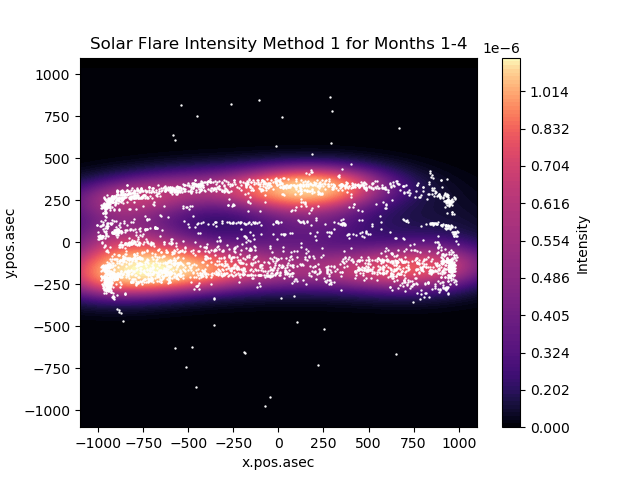
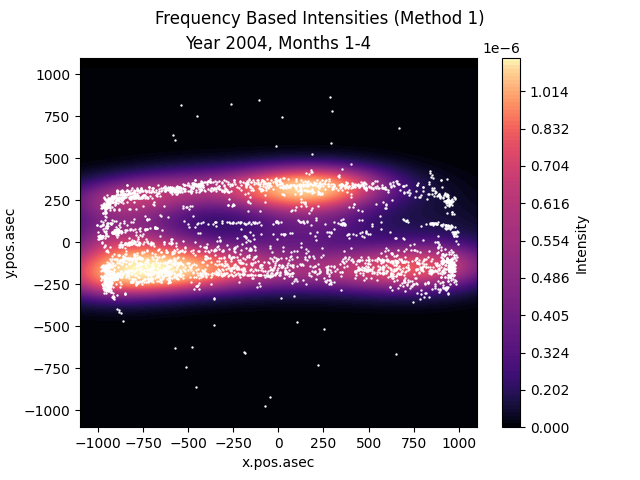
Clean up directories, fix helios class structure

diff --git a/helios.py b/helios.py
@@ -11,7 +11,7 @@ class Helios:
     def __init__(self):
         pass
     
-    def map_and_normalize(data):
+    def __map_and_normalize(self, data):
         # maps energy band to average energy
         energy_band_mapping = {    
             '6-12': 9,
@@ -45,7 +45,7 @@ class Helios:
     # used to either get an array of intensity estimations, 
     # a plot if plot=True and thresh=False, 
     # or just list of probability density values if plot=True and thresh=True
-    def intensity_estimation_frequency(data, plot=False, scatter=True, thresh=False, levels=10):
+    def intensity_estimation_frequency(self, data, plot=False, scatter=True, thresh=False, levels=10):
         # getting the x, y, and total.counts values in numpy arrays
         x = data['x.pos.asec'].values.flatten()
         y = data['y.pos.asec'].values.flatten()
@@ -88,11 +88,13 @@ class Helios:
                     plt.scatter(x, y, s=0.5, facecolor='white')
 
                 # title
-                ax.set_title(f"Solar Flare Intensity Method 1 for Months {data['month'].min()}-{data['month'].max()}")
+                plt.suptitle("Frequency Based Intensities (Method 1)")
+                ax.set_title(f"Year {data['year'].iloc[0]}, Months {data['month'].min()}-{data['month'].max()}")
                 
                 # saving the figure to the output folder
                 date_range = f"{data['year'].iloc[0]}_{data['month'].min()}-{data['month'].max()}"
                 plt.savefig(f"./output/intensity_frequency_{date_range}.png")
+
                 plt.show()
 
                 return fig, ax
@@ -109,22 +111,23 @@ class Helios:
     # from task1.ipynb    
     # gets the energy based intensity values if plot=False,
     # or a plot if plot=True    
-    def intensity_estimation_energy(self, plot=False, scatter=True, levels=10):
+    def intensity_estimation_energy(self, data, plot=False, scatter=True, levels=10):
         # adding the new intensity values for the data
-        #data = self.__map_and_normalize(data)
+        data = self.__map_and_normalize(data)
 
         # energy-based intensity data
-        intensity = self['intensity.method.2'].values.flatten()
+        intensity = data['intensity.method.2'].values.flatten()
+
         # x and y values
-        x = self['x.pos.asec'].values.flatten()
-        y = self['y.pos.asec'].values.flatten()
+        x = data['x.pos.asec'].values.flatten()
+        y = data['y.pos.asec'].values.flatten()
 
         if plot:
             # new matplotlib figure
             fig, ax = plt.subplots()
             
             # seaborn kde plot, uses scipy gaussian_kde underneath
-            ax = sns.kdeplot(data=self, x='x.pos.asec', y='y.pos.asec',
+            ax = sns.kdeplot(data=data, x='x.pos.asec', y='y.pos.asec',
                             weights='intensity.method.2', fill=True, levels=levels, 
                             thresh=0, cmap='inferno', cbar=True, bw_method='scott')
 
@@ -144,9 +147,12 @@ class Helios:
                 # plotting the scatterplot on top of the kde plot
                 plt.scatter(x, y, s=0.2, facecolor='white')
 
-            ax.set_title(f"Solar Flare Intensity Method 2 for Months {self['month'].min()}-{self['month'].max()}")
-            date_range = f"{self['year'].iloc[0]}_{self['month'].min()}-{self['month'].max()}"
+            plt.suptitle("Energy Based Intensities (Method 2)")
+            ax.set_title(f"Year {data['year'].iloc[0]}, Months {data['month'].min()}-{data['month'].max()}")
+
+            date_range = f"{data['year'].iloc[0]}_{data['month'].min()}-{data['month'].max()}"
             plt.savefig(f"./output/intensity_energy_{date_range}.png")
+
             plt.show()
 
             return fig, ax
@@ -154,10 +160,9 @@ class Helios:
             return intensity
         
     # from task2.ipynb
-    # averages all the potential threshold values across a set of pandas dataframes
-    # and returns d2 and d1
-    # levels should have two values for this to work right
-    def thresholds(self, dataframes, levels=[0.5, 0.99]):
+    # averages all the potential threshold values across a set of pandas dataframes and returns them
+    # from there you can select threhold values with ticks[2], ticks[3] etc.
+    def thresholds(self, dataframes, levels=[0, 0.25, 0.5, 0.95, 1]):
         ticks = []
 
         # loop through each subset
@@ -172,5 +177,5 @@ class Helios:
         # hotspots and t[3] for the intense hotspots
         t = np.mean(ticks, axis=0)
 
-        # returning d2, d1
-        return (t[0], t[1])
+        # returning average threshold values
+        return ticks

diff --git a/main.py b/main.py
@@ -15,18 +15,18 @@ if __name__ == '__main__':
     # grouping the data frame by month nummber
     df_m = df_04.groupby(['month'])
 
+    for i in range(4, 25, 2):
+        # get groups for i - 3th, i - 2th, i - 1th, and ith months, 
+        # concatenate them into a single data frame, then append this to the dfs list
+        dfs_04.append(pd.concat([df_m.get_group(i - 3), df_m.get_group(i - 2), df_m.get_group(i - 1), df_m.get_group(i)]))
+
+
+
     # same thing but with the 15-16 data
     df_15 = pd.read_csv('dataset/Solar_flare_RHESSI_2015_16.csv')
     df_15['month'] = np.where((df_15['year'] == 2016), df_15['month'] + 12, df_15['month'])
     dfs_15 = []
     df_n = df_15.groupby(['month'])
-
-    # looping starting at i = 4, in steps of 2, while i < 25
-    # creates an overlap of two months between subsets
-    for i in range(4, 25, 2):
-        # get groups for i - 3th, i - 2th, i - 1th, and ith months, 
-        # concatenate them into a single data frame, then append this to the dfs list
-        dfs_04.append(pd.concat([df_m.get_group(i - 3), df_m.get_group(i - 2), df_m.get_group(i - 1), df_m.get_group(i)]))
 
     for i in range(4, 14, 2):
         dfs_15.append(pd.concat([df_n.get_group(i - 3), df_n.get_group(i - 2), df_n.get_group(i - 1), df_n.get_group(i)]))
@@ -34,16 +34,14 @@ if __name__ == '__main__':
     for i in range(20, 25, 2):
         dfs_15.append(pd.concat([df_n.get_group(i - 3), df_n.get_group(i - 2), df_n.get_group(i - 1), df_n.get_group(i)]))
 
-    # some examples
 
-    s1 = Helios.map_and_normalize(dfs_04[0])
-    s2 = Helios.map_and_normalize(dfs_15[0])
 
-    # frequency based intensity plot for the entire 04-05 dataset (no scatter plot overlaid)
-    Helios.intensity_estimation_frequency(dfs_04[0], plot=True, levels=100)
-    Helios.intensity_estimation_energy(s1, plot=True, levels=100)
-    # energy based intensity plot for just the last 4 months of the 15-16 dataset
-    Helios.intensity_estimation_frequency(dfs_15[0], plot=True, levels=100)
-    Helios.intensity_estimation_energy(s2, plot=True, levels=100)
+    helios = Helios()
 
-    
+    s1 = dfs_04[0]
+    s2 = dfs_15[0]
+
+    helios.intensity_estimation_frequency(s1, True, levels=100)
+    helios.intensity_estimation_energy(s1, plot=True, levels=100)
+    helios.intensity_estimation_frequency(s2, plot=True, levels=100)
+    helios.intensity_estimation_energy(s2, plot=True, levels=100)

diff --git a/README.md b/README.md
@@ -8,7 +8,8 @@
 - [x] Task 1: Solar Flare Intensity Estimation
     - [x] Method 1: Frequency Based
     - [x] Method 2: Energy Based
-- [ ] Task 2: Hotspot Discovery and Analysis
+- [x] Task 2: Hotspot Discovery and Analysis
     - [x] Thresholds `d1` and `d2`
-    - [ ] Time Series for both types of hotspots 
+    - [x] Time Series for both types of hotspots 
 - [ ] Task 3: Change Analysis for Solar Flares
+    - [ ] Visual analysis of intensities 
